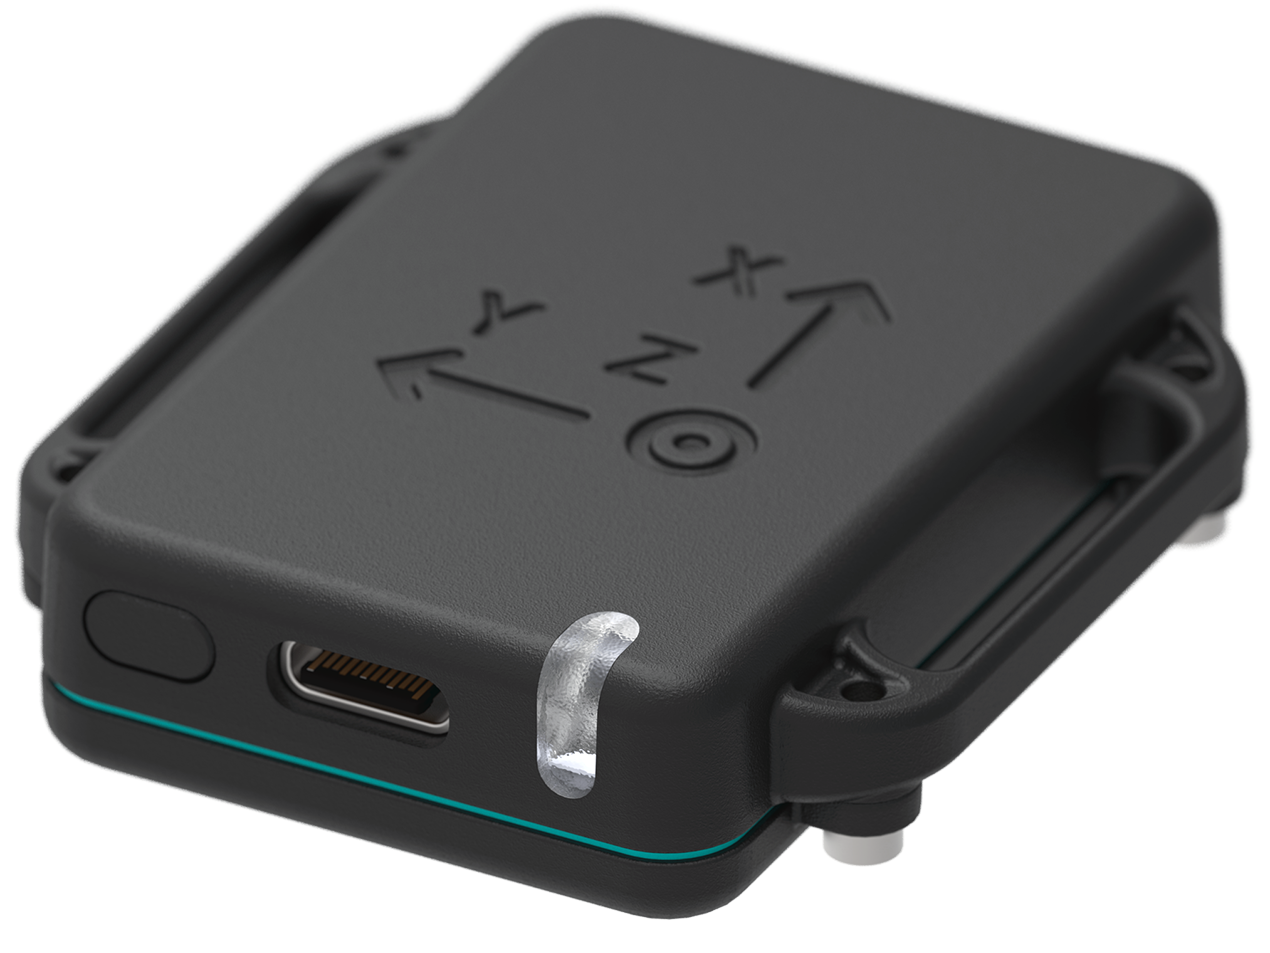
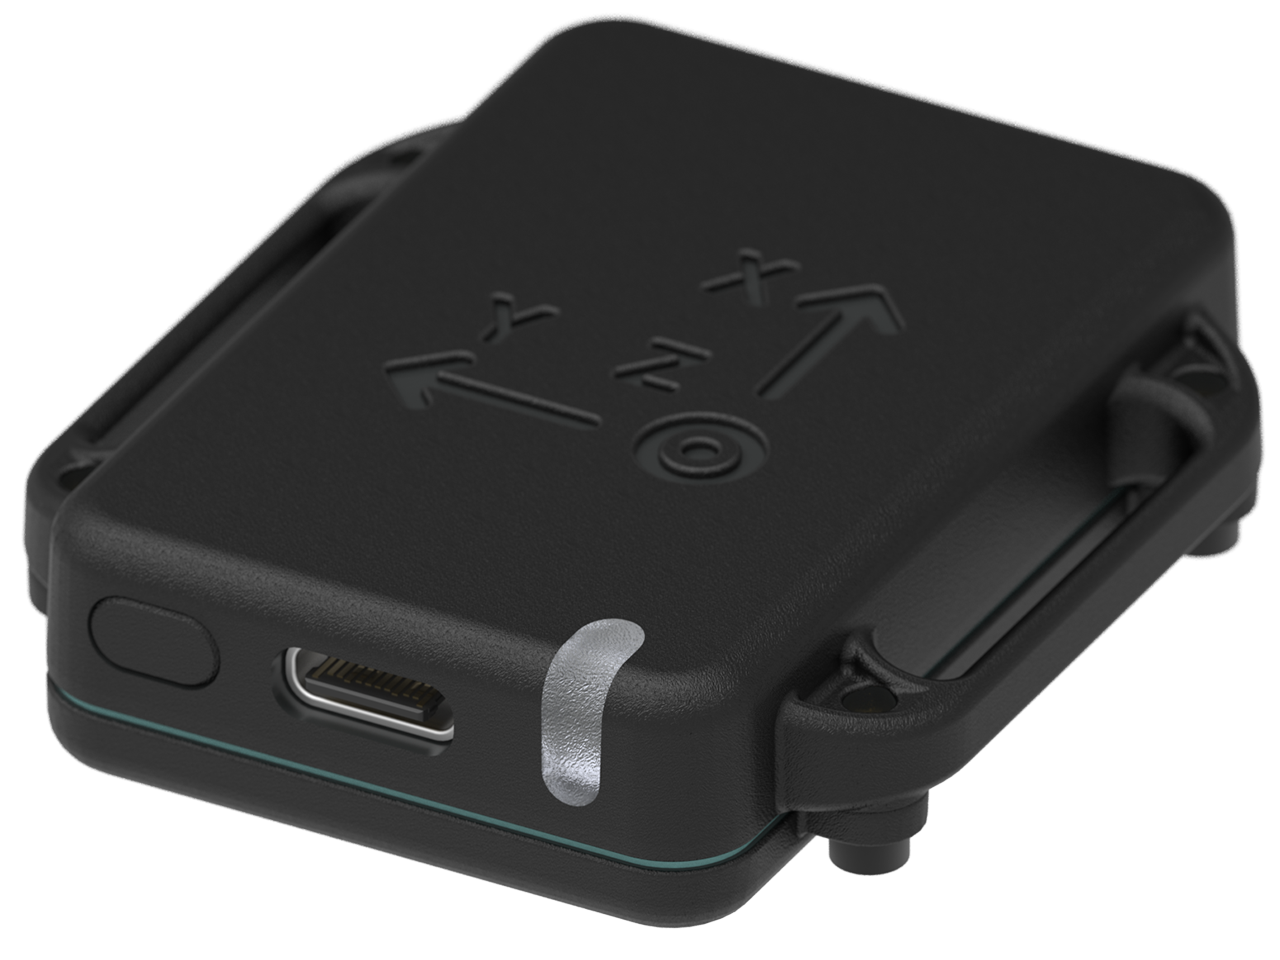
Update images

diff --git a/documentVersionHistory.tex b/documentVersionHistory.tex
@@ -73,7 +73,7 @@
 			\item Remove serial accessory rate divisor setting
 			\item Add calibration section
         \end{itemize}\\
-        vX.X & XXX XX, XXXX &
+        v0.11 & Apr 06, 2022 &
         \begin{itemize}
 			\item Use consistent numerical formatting in examples
 			\item Add \ac{LED} section
@@ -86,6 +86,7 @@
 			\item Add data logger section
 			\item Update network announcement message
 			\item Add AHRS device settings
+			\item Update images
         \end{itemize}\\
         \arrayrulecolor{gray!50}\hline
     \end{longtable}

diff --git a/main.tex b/main.tex
@@ -45,7 +45,7 @@
 
 \author{x-io Technologies}
 \title{x-IMU3 User Manual}
-\newcommand{\version}{v0.10}
+\newcommand{\version}{v0.11}
 \date{\today}
 
 \begin{document}
